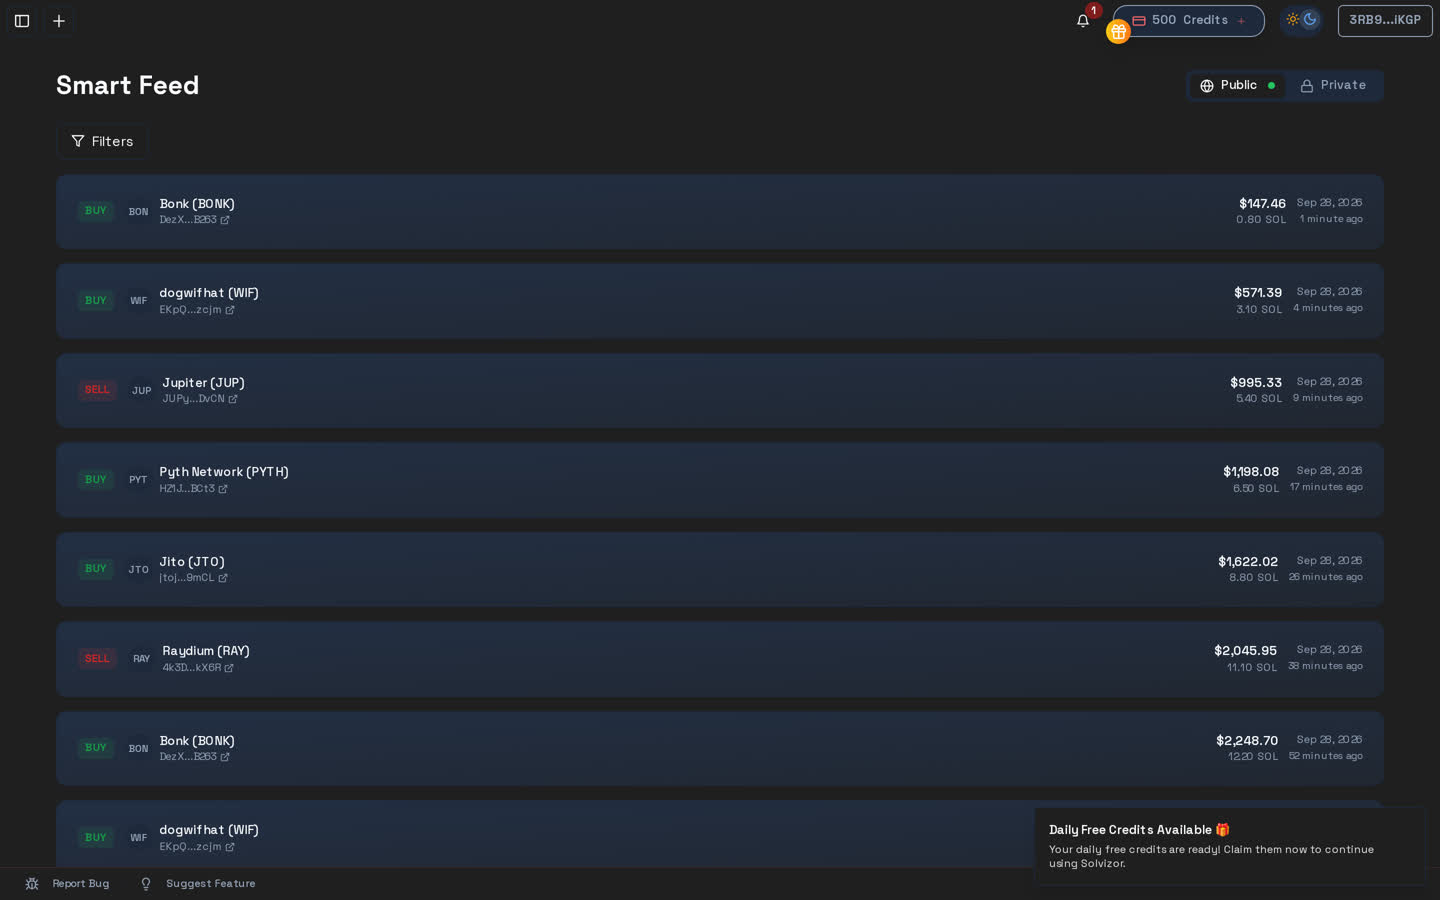
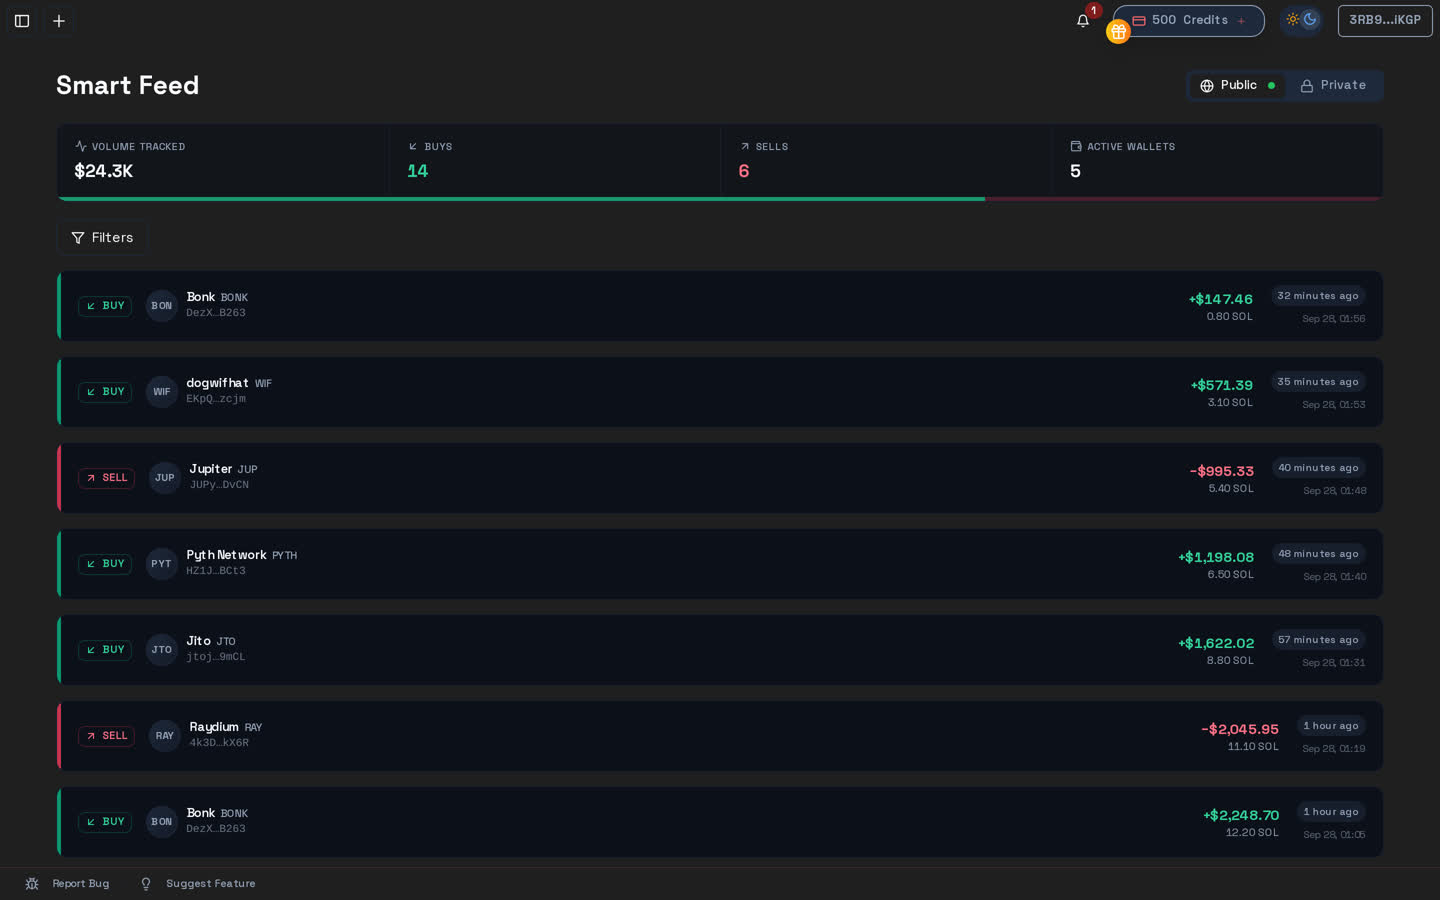
Lead the case study with the chat and the restyled feed
Four screens captured from the running app, with the chat first: it shows the
assistant ranking wallets and then breaking down one trader's pattern, which
is the thing the case study is actually describing.

The feed shot reflects the restyled rows and the new stats strip.

diff --git a/constants.ts b/constants.ts
@@ -197,24 +197,24 @@ export const RESUME: ResumeData = {
         ],
         screens: [
           {
+            webp: "/media/solvizor/shot-chat.webp",
+            jpg: "/media/solvizor/shot-chat.jpg",
+            caption: "The agent answering a real question — wallet rankings, then a breakdown of one trader's pattern."
+          },
+          {
             webp: "/media/solvizor/shot-feed.webp",
             jpg: "/media/solvizor/shot-feed.jpg",
-            caption: "The Smart Feed — parsed swaps as they land, priced in USD and SOL."
+            caption: "The Smart Feed: parsed swaps as they land, with buy/sell pressure across the sample."
           },
           {
             webp: "/media/solvizor/shot-wallets.webp",
             jpg: "/media/solvizor/shot-wallets.jpg",
-            caption: "Wallet tracking: follow any Solana address and toggle alerts per wallet."
+            caption: "Wallet tracking — follow any Solana address and toggle alerts per wallet."
           },
           {
             webp: "/media/solvizor/shot-missions.webp",
             jpg: "/media/solvizor/shot-missions.jpg",
-            caption: "Missions and credits — the loop that drove signups and retention."
-          },
-          {
-            webp: "/media/solvizor/shot-landing.webp",
-            jpg: "/media/solvizor/shot-landing.jpg",
-            caption: "The landing page — wallet-first onboarding, no email required."
+            caption: "Missions and credits, the loop that drove signups and retention."
           }
         ]
       }
